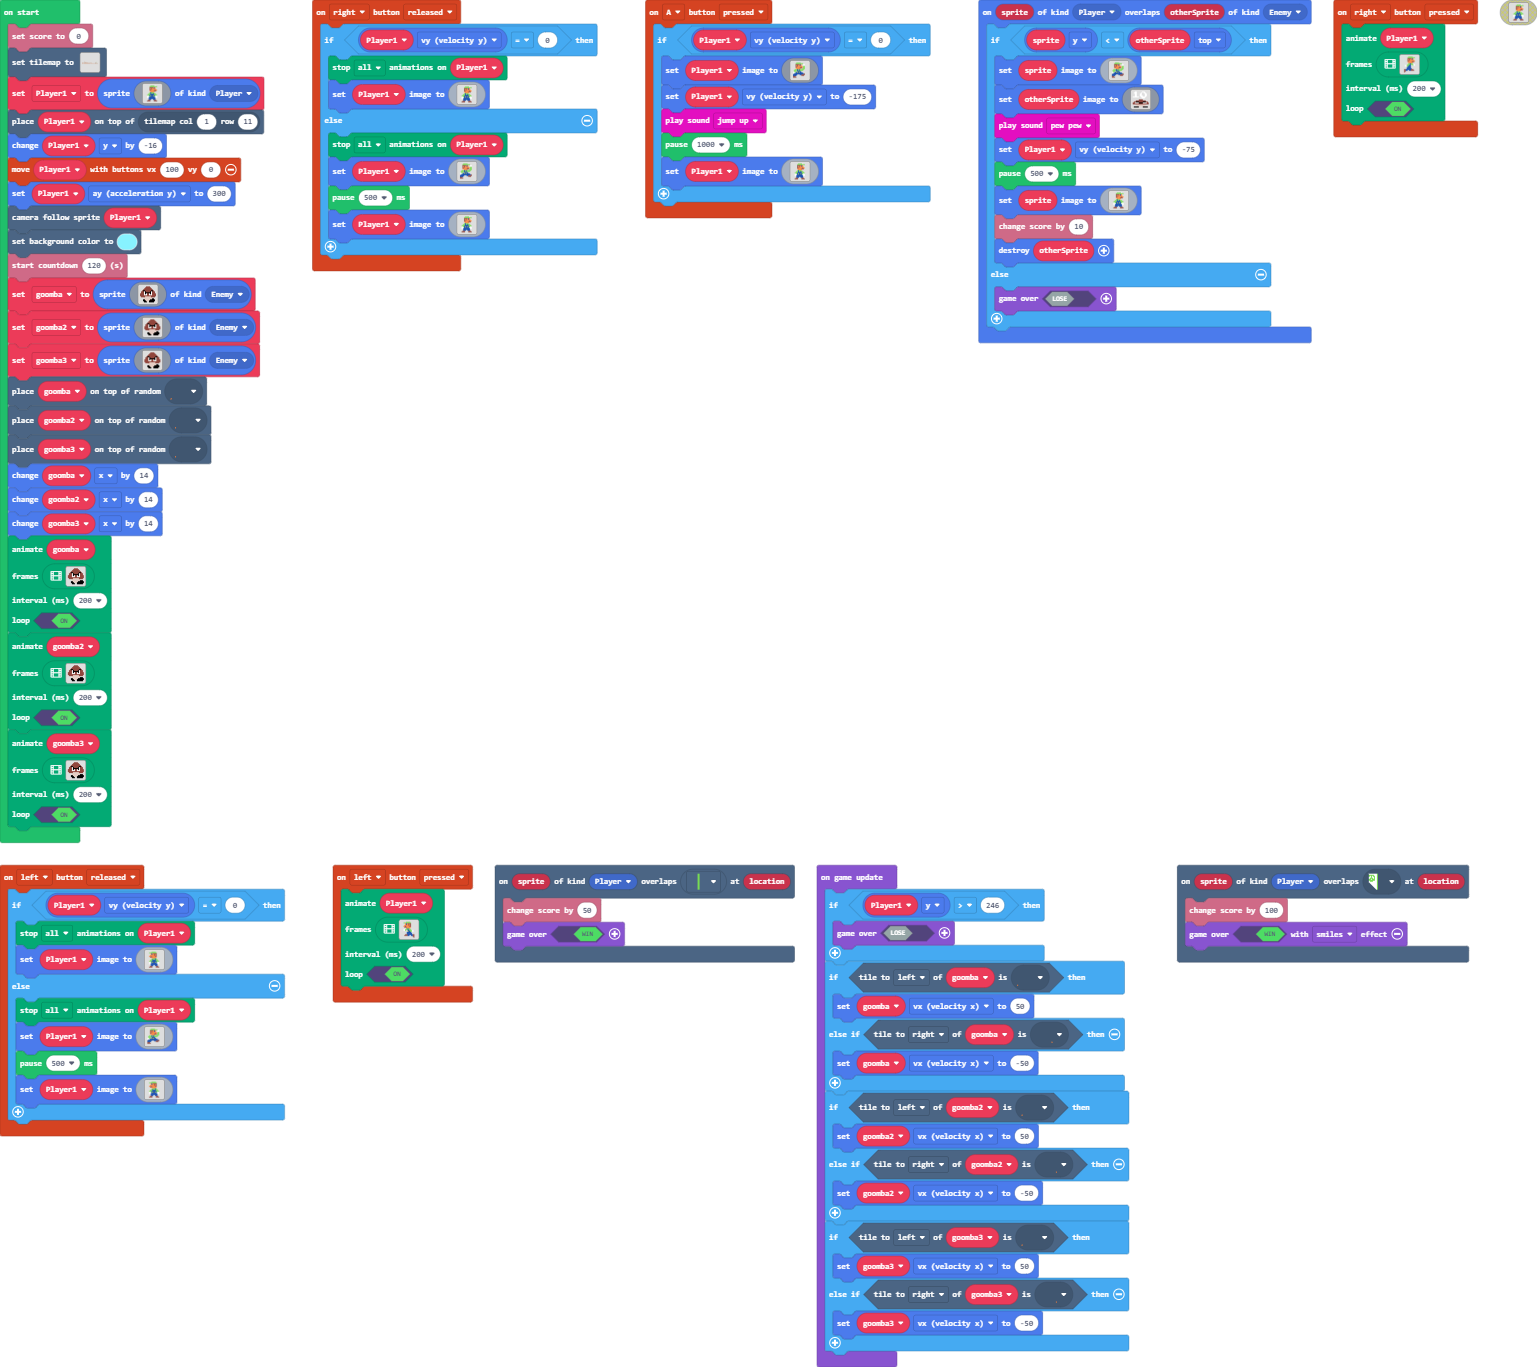
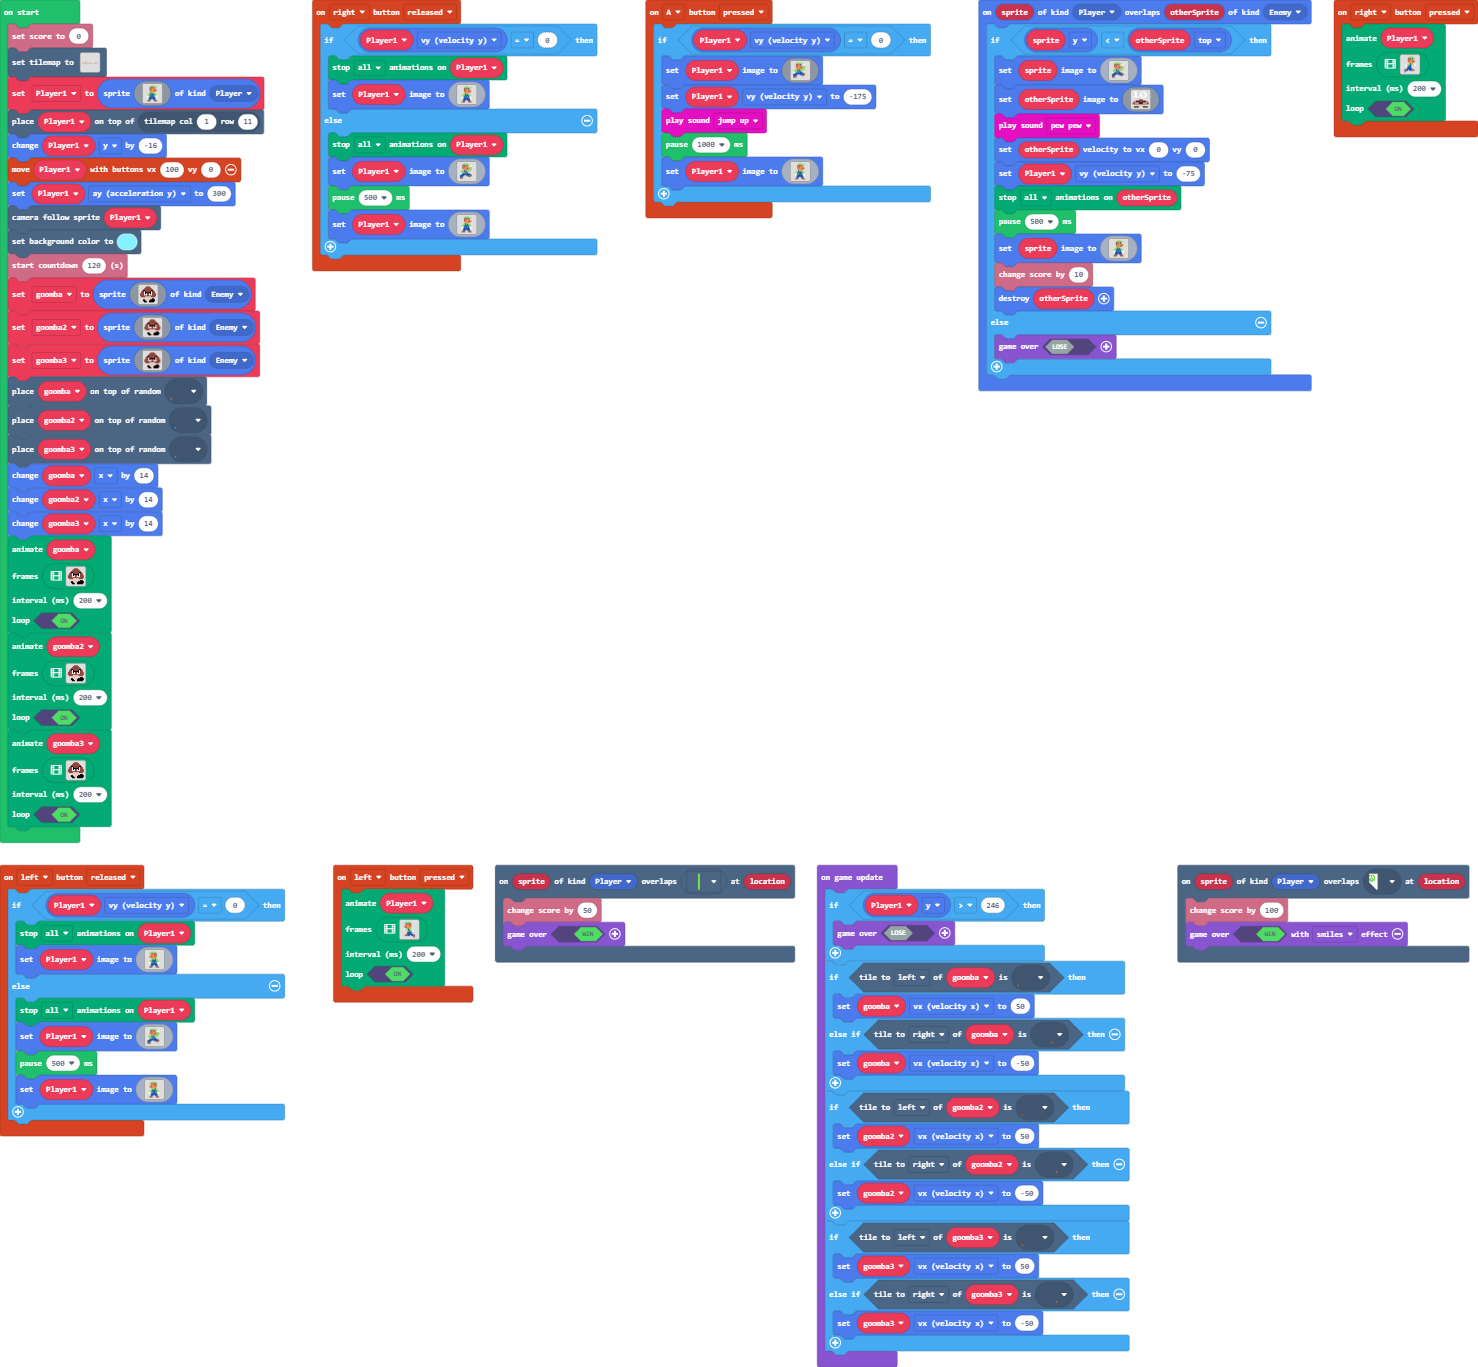
Update main.blocks, main.ts

Changed region(s): [[0.0, 0.0, 1.0, 0.6145], [0.4668, 0.6145, 0.9959, 1.0], [0.0, 0.6145, 0.4357, 0.8296]]

diff --git a/main.ts b/main.ts
@@ -375,7 +375,9 @@ sprites.onOverlap(SpriteKind.Player, SpriteKind.Enemy, function (sprite, otherSp
             . f f f f f . . . . f f f f f . 
             `)
         music.pewPew.play()
+        otherSprite.setVelocity(0, 0)
         Player1.vy = -75
+        animation.stopAnimation(animation.AnimationTypes.All, otherSprite)
         pause(500)
         sprite.setImage(img`
             ......777771....
